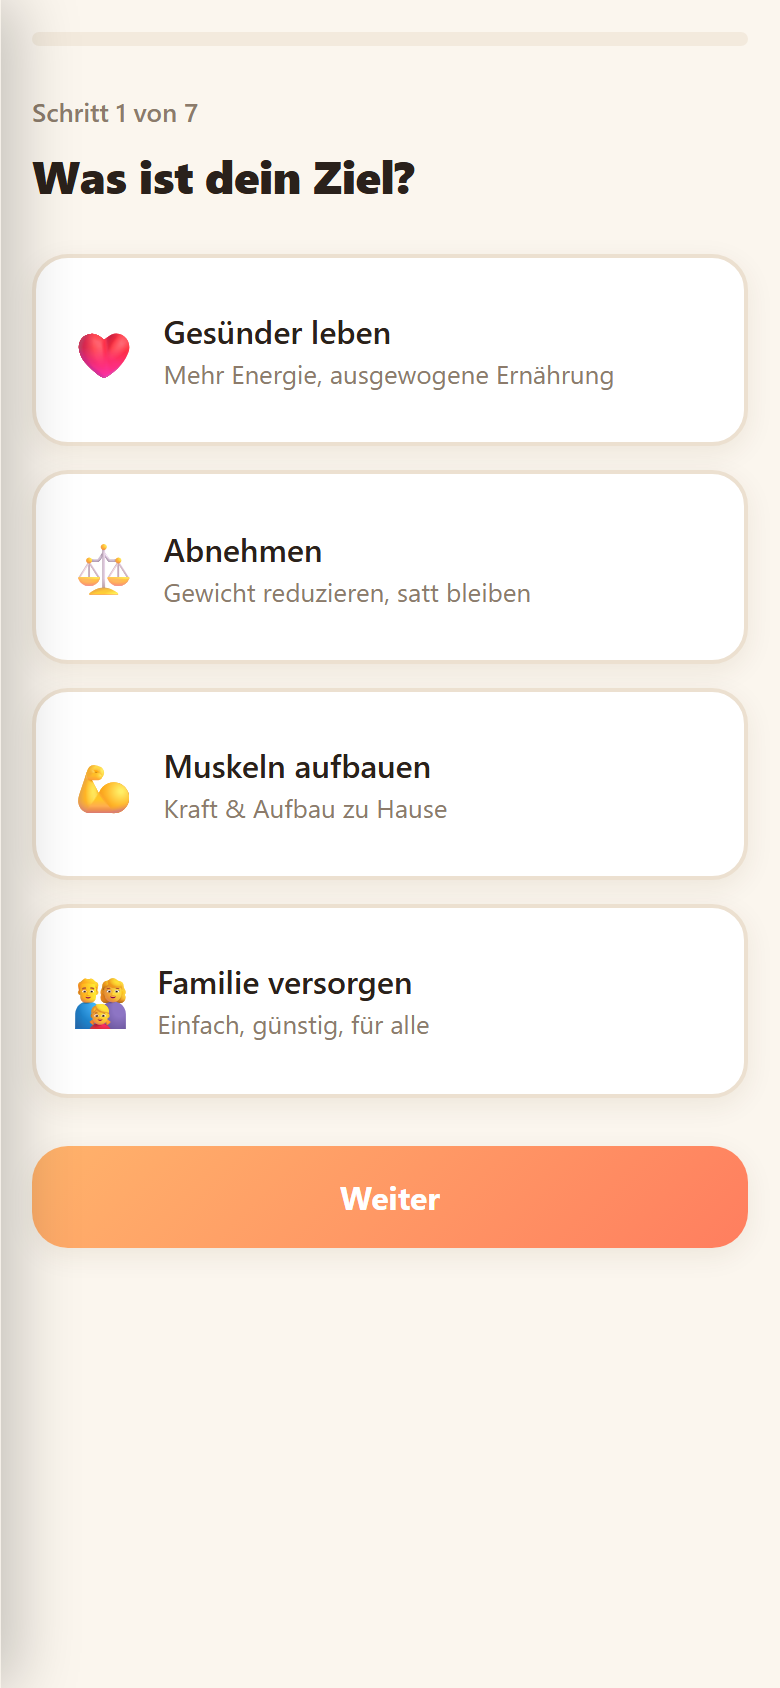
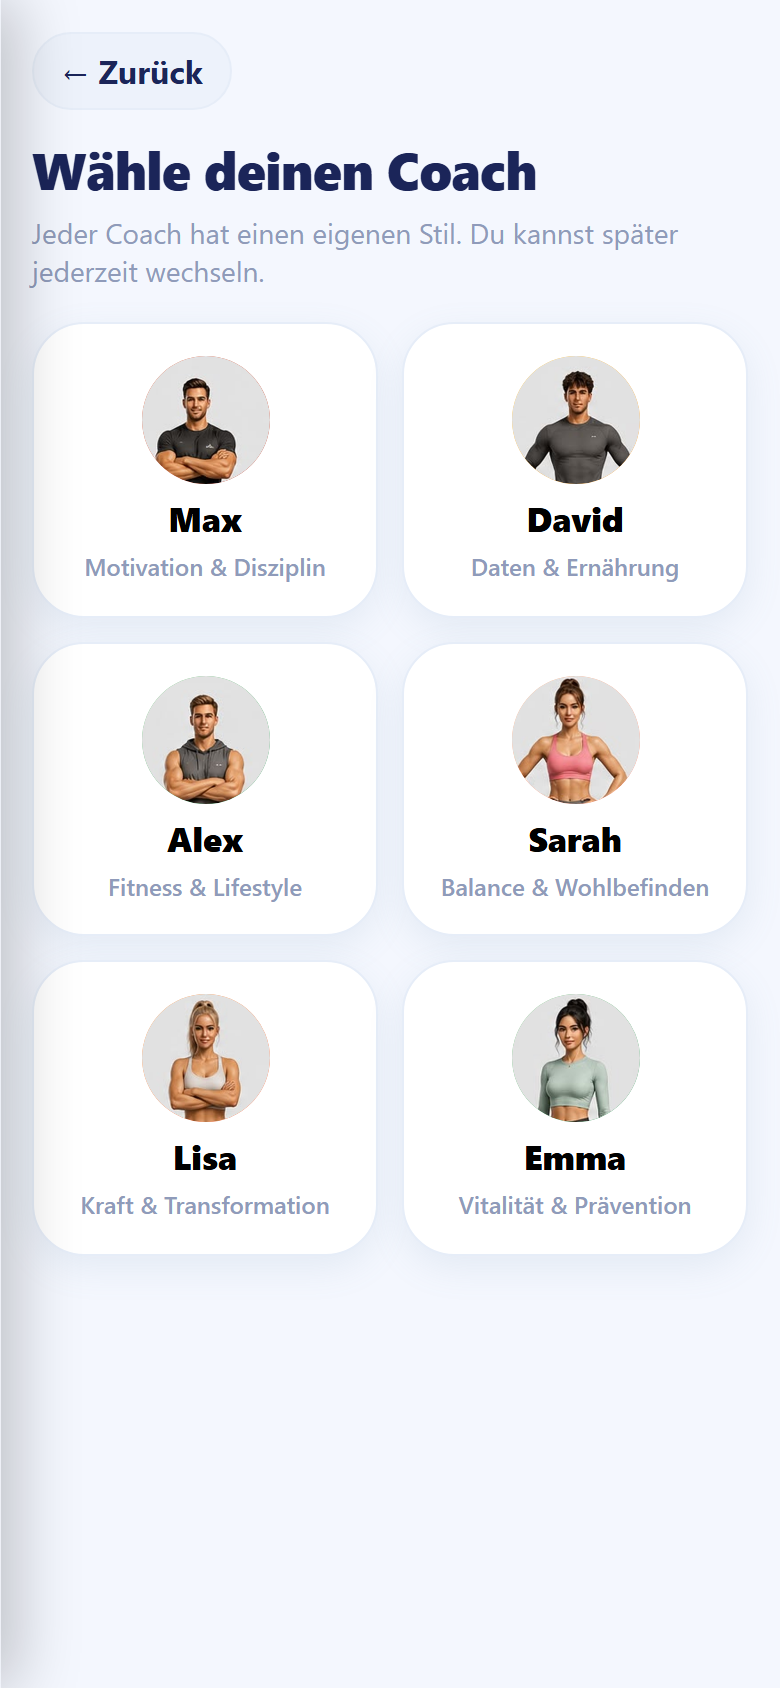
Apps gestrafft + Tools-Namen ergaenzt
- Sport Goal und DogAI aus dem Showcase entfernt (Bilder + Karten)
- Gesundheits-App: neuer Screenshot mit Coach-Avataren
- Tools-Teaser nennt geplante Tools (Verwaltungsassistent,
  Pflegeassistent, Handwerker-Tool) als Chips

diff --git a/index.html b/index.html
@@ -203,16 +203,6 @@
         </article>
 
         <article class="app-card reveal reveal-d1">
-          <div class="app-frame"><img src="assets/img/apps/sport.png" alt="Screenshot der Sport Goal App" loading="lazy"></div>
-          <div class="app-info">
-            <span class="app-cat cat-5">Sport &amp; Live-Daten</span>
-            <h3>Sport Goal</h3>
-            <p>Die personalisierte Sport-App: Lieblingssportarten wählen und mit echten Live-Daten immer am Ball bleiben.</p>
-            <a href="https://marcel-fe.github.io/sport-goal/" target="_blank" rel="noopener" class="btn btn-primary app-open">App öffnen →</a>
-          </div>
-        </article>
-
-        <article class="app-card reveal reveal-d2">
           <div class="app-frame"><img src="assets/img/apps/dogmatch.png" alt="Screenshot der DogMatch AI App" loading="lazy"></div>
           <div class="app-info">
             <span class="app-cat cat-6">Hund &amp; Beratung</span>
@@ -222,17 +212,7 @@
           </div>
         </article>
 
-        <article class="app-card reveal">
-          <div class="app-frame"><img src="assets/img/apps/dogai.png" alt="Screenshot der DogAI App" loading="lazy"></div>
-          <div class="app-info">
-            <span class="app-cat cat-6">Hund &amp; Gesundheit</span>
-            <h3>DogAI</h3>
-            <p>Smarter Begleiter für ein gesundes Hundeleben: Schnell-Scan, KI-Fragen und Rasse-Wissen – immer dabei.</p>
-            <a href="https://marcel-fe.github.io/dogai/" target="_blank" rel="noopener" class="btn btn-primary app-open">App öffnen →</a>
-          </div>
-        </article>
-
-        <article class="app-card app-soon reveal reveal-d1">
+        <article class="app-card app-soon reveal reveal-d2">
           <div class="soon-inner">
             <span class="soon-plus">+</span>
             <h3>Weitere Apps in Arbeit</h3>
@@ -251,7 +231,13 @@
         <div class="tools-text">
           <span class="eyebrow">Tools für Unternehmen</span>
           <h2>Leistungsstarke Tools – in Entwicklung.</h2>
-          <p>Wir erweitern Die Alltagshelfer um Tools, die Unternehmen den Arbeitsalltag erleichtern. Sie werden hier vorgestellt, sobald sie fertig sind.</p>
+          <p>Erst kommen die Apps – als Nächstes folgen Tools, die Unternehmen den Arbeitsalltag erleichtern:</p>
+          <div class="tools-chips">
+            <span>Verwaltungsassistent</span>
+            <span>Pflegeassistent</span>
+            <span>Handwerker-Tool</span>
+            <span>… und weitere</span>
+          </div>
         </div>
         <span class="tools-badge">Demnächst verfügbar</span>
       </div>

diff --git a/css/style.css b/css/style.css
@@ -1509,6 +1509,17 @@ section { padding: 96px 0; }
 .tools-band h2 { font-size: clamp(24px, 3vw, 32px); margin-bottom: 10px; }
 .tools-band .eyebrow { margin-bottom: 12px; }
 .tools-band p { color: var(--ink-soft); font-size: 16px; }
+.tools-chips { display: flex; flex-wrap: wrap; gap: 10px; margin-top: 18px; }
+.tools-chips span {
+  font-size: 14px;
+  font-weight: 600;
+  color: var(--ink);
+  background: rgba(255,255,255,0.05);
+  border: 1px solid var(--line);
+  padding: 8px 16px;
+  border-radius: 999px;
+}
+.tools-chips span:last-child { color: var(--ink-faint); background: transparent; }
 .tools-badge {
   flex: none;
   font-size: 14px;